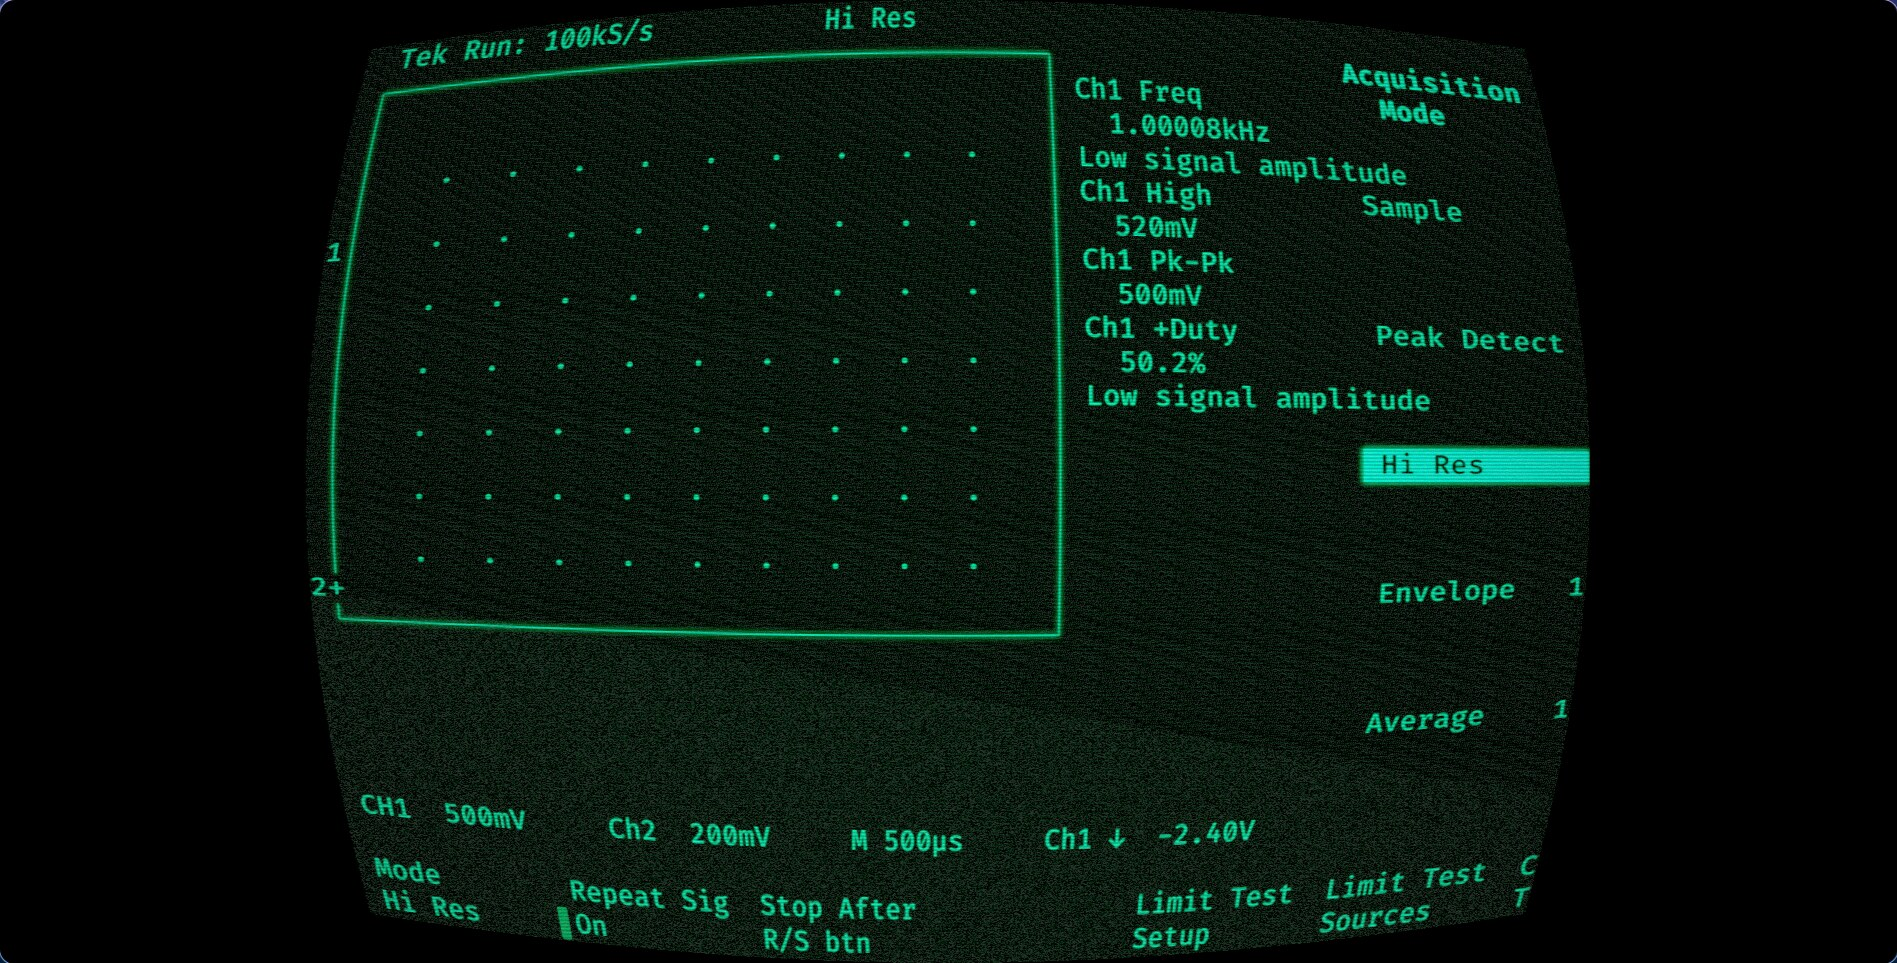
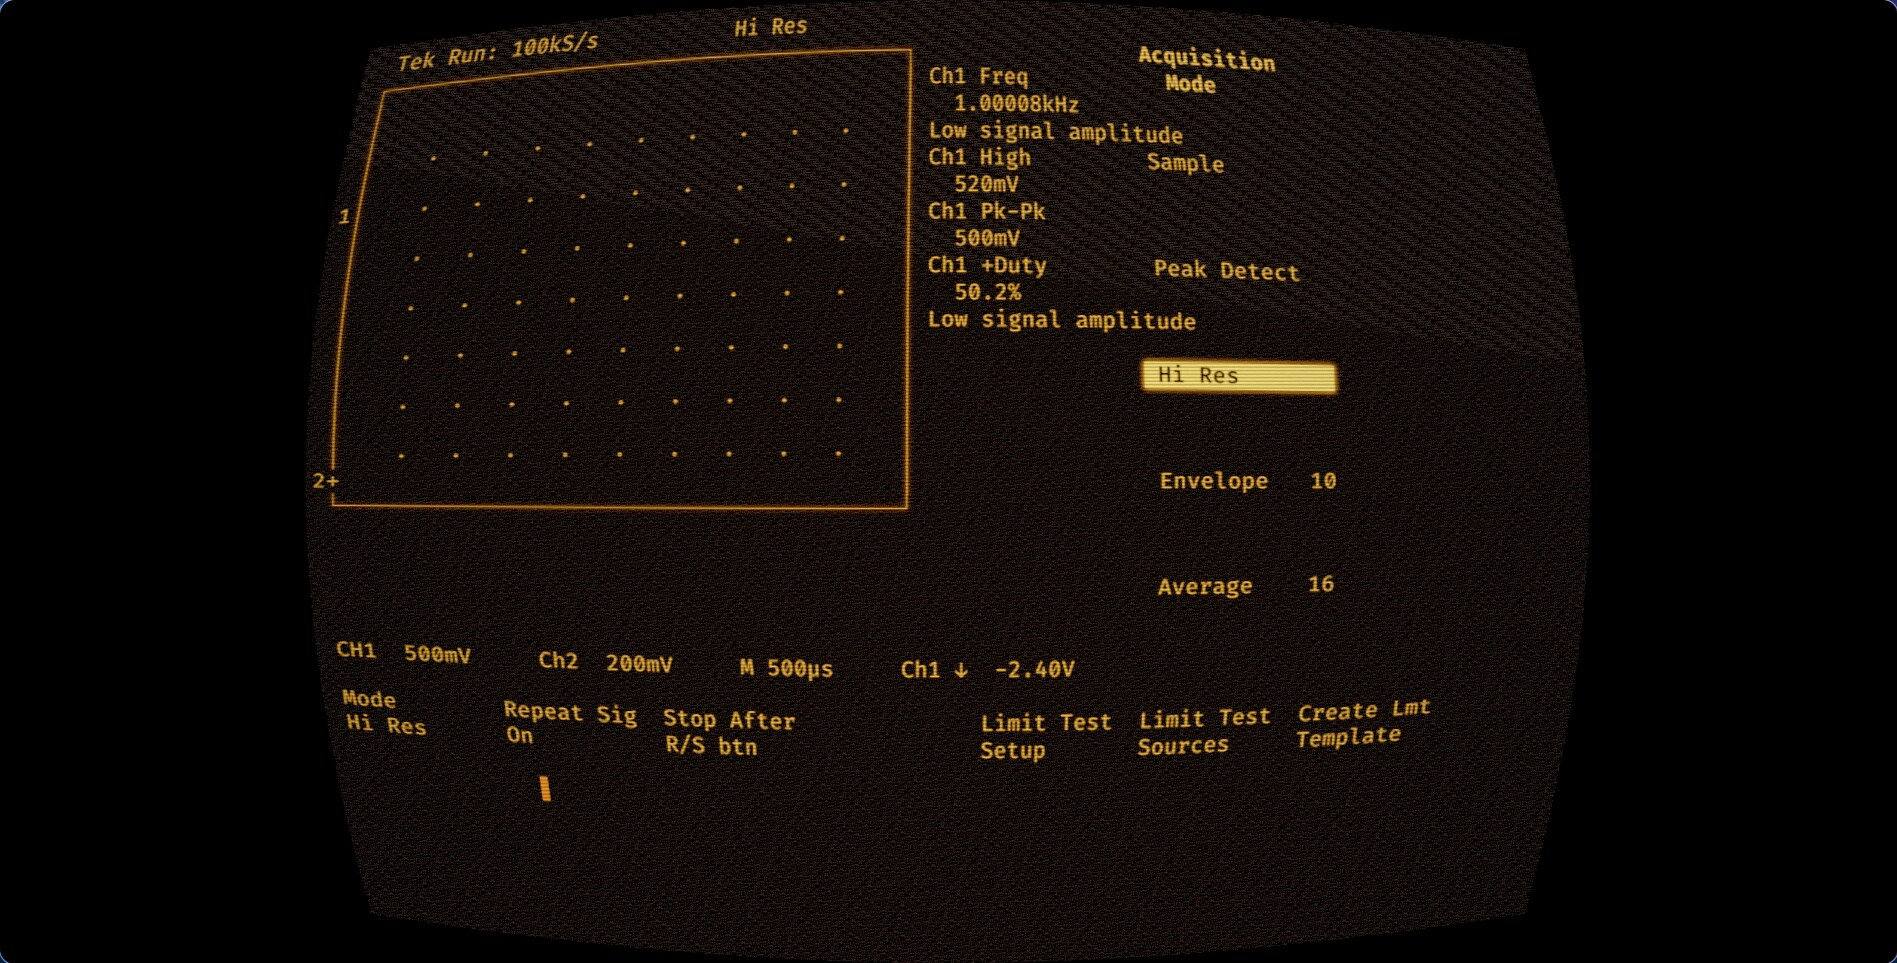
docs: fix README claims, add config reference and build deps
- Drop the ligatures showcase: verified via raw HarfBuzz calls that
  calt-based ligatures don't collapse on this build/font combo, so the
  screenshot was unsubstantiated.
- Recapture hero.png with the current binary (picks up the undercurl
  smoothing fix) and crt.jpg with the historically-correct Zenith
  ZVM-1220 + amber pairing (was mismatched with green-p39, and also
  clipped at the old atlas scale).
- Add docs/config.md: full TOML/CLI reference, linked from the README.
- Add per-distro build dependency commands (apt/dnf/zypper/pacman/brew),
  sourced from the release workflow instead of guessed.

diff --git a/docs/config.md b/docs/config.md
@@ -1,0 +1,185 @@
+# Configuration
+
+tubeless is config-file driven. Everything below can be edited either
+by hand or through the in-terminal settings UI (`tubeless config`),
+which reads and writes the same file and shows a live preview as you
+adjust values.
+
+## File location
+
+```
+$XDG_CONFIG_HOME/tubeless/config.toml
+```
+
+`$XDG_CONFIG_HOME` defaults to `~/.config` on every platform, including
+macOS (deliberately — not `~/Library/Application Support`). A missing
+file is not an error: tubeless just runs with defaults, and any field
+you never set keeps its default. There is no need to write a complete
+file — only the keys you want to override.
+
+## Command-line flags
+
+```sh
+tubeless --theme=nord              # starting theme (config file overrides if set there)
+tubeless --shell=/path/to/program  # program to run instead of $SHELL
+tubeless --font="JetBrains Mono"   # installed font family (default: bundled FiraCode Nerd)
+tubeless --font-size=16            # logical font size in pixels (default: config font.size)
+tubeless config                    # open the in-terminal settings UI
+tubeless upgrade                   # check GitHub for a newer release, install it, restart
+tubeless --version                 # print the build version
+```
+
+## Two independent axes: theme and preset
+
+Every look tubeless ships is built from two independent settings:
+
+- **`theme`** — color. Selects `true_color`, `colors`, and `phosphor`.
+- **`preset`** — every other visual effect: `surface`, `blur`,
+  `cursor`, `face`, `contrast`, and `crt`.
+
+Setting either one seeds the fields it governs; hand-editing any of
+those fields afterward (or through the config TUI) flips that axis's
+name to `"custom"` so it's never silently reseeded later.
+
+```toml
+theme = "rosepine"
+preset = "modern"
+```
+
+### Built-in themes
+
+`rosepine` (default) · `rosepine-moon` · `gruvbox-dark-hard` · `nord` ·
+`dracula` · `catppuccin-mocha` · `tokyo-night` · `one-dark` · `green` ·
+`amber` · `green-p39` · `white-p4` · `cga`
+
+The last five (`green`, `amber`, `green-p39`, `white-p4`, `cga`) are
+monochrome or fixed-palette themes — period-accurate companions to the
+CRT presets below, rather than independent color schemes.
+
+### Built-in presets
+
+`modern` (default, every CRT effect off) · `ibm-5151` · `ibm-5153` ·
+`zenith-zvm-1220` · `apple-monitor-iii` · `commodore-1084s` ·
+`princeton-hx12`
+
+Each non-`modern` preset models one real 1980s monitor's curvature,
+phosphor persistence, noise, and (where applicable) shadow-mask
+convergence error, tuned from that display's own service manual. Four
+of them have one historically-correct theme pairing (selecting the
+preset in `tubeless config` switches the theme too):
+
+| Preset              | Paired theme |
+| ------------------- | ------------ |
+| `ibm-5151`          | `green-p39`  |
+| `ibm-5153`          | `cga`        |
+| `zenith-zvm-1220`   | `amber`      |
+| `apple-monitor-iii` | `white-p4`   |
+
+(`commodore-1084s` and `princeton-hx12` have no fixed native palette —
+real analog RGB monitors that just rendered whatever the host sent
+them — so picking one leaves the active theme alone.)
+
+## Reference
+
+All sizes are in framebuffer pixels unless noted. Colors are linear
+RGB triples `[r, g, b]` in `0.0-1.0`, not raw hex.
+
+### `[font]`
+
+| Key           | Type    | Default | Meaning                                                                 |
+| ------------- | ------- | ------- | ------------------------------------------------------------------------ |
+| `family`      | string  | `""`    | Installed font family (fontconfig-resolved). Empty = bundled FiraCode Nerd. |
+| `size`        | int     | `14`    | Logical font size in pixels.                                            |
+| `line_height` | float   | `1`     | Multiplier on the font's own line height.                               |
+| `ligatures`   | bool    | `true`  | Draw GSUB programming ligatures (`=>`, `->`, `!=`, …) the loaded font's own GSUB tables define. Off costs nothing. |
+
+### `[atlas]`
+
+| Key     | Type  | Default | Meaning                                                              |
+| ------- | ----- | ------- | ----------------------------------------------------------------------- |
+| `scale` | int   | `4`     | Glyph rasterization supersampling. `<= 0` auto-picks from the monitor's content scale. |
+| `gamma` | float | `1.0`   | Glyph rasterization gamma correction.                                |
+
+### `[padding]`
+
+| Key    | Type  | Default | Meaning                                                       |
+| ------ | ----- | ------- | ---------------------------------------------------------------- |
+| `size` | float | `0`     | Empty margin kept between the window (or letterboxed content box) and the grid, on every side. |
+
+### `[scrollback]`
+
+| Key     | Type | Default | Meaning                                        |
+| ------- | ---- | ------- | ------------------------------------------------- |
+| `lines` | int  | `5000`  | Scrolled-off history retained. `<= 0` disables scrollback. Not yet exposed in the config TUI — edit the file directly. |
+
+### `[scrolling]` (experimental)
+
+| Key                    | Type | Default | Meaning                                                                 |
+| ---------------------- | ---- | ------- | ------------------------------------------------------------------------ |
+| `smooth_content_shift` | bool | `false` | Ease detected scroll/pane shifts in like Neovide instead of snapping. A heuristic frame diff — the escape hatch if it misfires on some app's output. |
+
+### `[shell]` (experimental)
+
+| Key        | Type | Default | Meaning                                                                 |
+| ---------- | ---- | ------- | ------------------------------------------------------------------------ |
+| `use_tmux` | bool | `false` | Launch into a fixed tmux session named `home` instead of a plain login shell. Only applies on the `$SHELL` auto-detect path (an explicit `--shell` always wins) and only when tmux is on `PATH`. |
+
+### Theme axis: `[colors]` and `[phosphor]`
+
+| Key                 | Meaning                                                                 |
+| ------------------- | ------------------------------------------------------------------------ |
+| `true_color`        | Whether cells use `[colors]` (true color) or the monochrome `[phosphor]` ramp. |
+| `colors.default_fg` / `colors.default_bg` | Color for a cell with no explicit SGR color. |
+| `colors.palette`    | The 16-entry ANSI table (0-7 normal, 8-15 bright) indexed SGR colors resolve against. |
+| `phosphor.low` / `phosphor.high` | The monochrome intensity ramp's dim/bright ends. On a true-color theme, still drives the CRT chrome tint and cursor accent even though cell colors come from `[colors]`. |
+
+### Preset axis: effects
+
+| Table         | Key            | Meaning                                                              |
+| ------------- | -------------- | ------------------------------------------------------------------------ |
+| `[surface]`   | `radius`       | Block/border corner radius, in pixels.                               |
+|               | `gradient`     | `0..1` top-lit/bottom-shaded sheen on block surfaces.                |
+|               | `shadow`       | `0..1` soft drop shadow cast by block surfaces.                      |
+| `[blur]`      | `radius`       | Gaussian bloom spread, in pixels, over block/border surfaces.        |
+|               | `strength`     | `0..1` mix of the blurred result.                                    |
+| `[cursor]`    | `glow`         | Cursor edge anti-aliasing width, in pixels.                          |
+|               | `pulse_period` | Cursor breathing-pulse period, in seconds.                           |
+| `[face]`      | `bg_tint`      | `0..1` faint phosphor-tinted background (the CRT "tube face" look).  |
+|               | `inset_shadow` | `0..1` radial falloff toward the screen corners.                     |
+| `[contrast]`  | `min_delta`    | Minimum enforced fg/bg brightness gap on the monochrome ramp, so isoluminant color pairs stay readable. |
+
+### `[crt]`
+
+Every field defaults to off (`0`) under the `modern` preset.
+
+| Table            | Key            | Meaning                                                              |
+| ---------------- | -------------- | ------------------------------------------------------------------------ |
+| `[crt.curvature]`     | `amount`        | Barrel distortion toward a curved tube face. `0` flat, `~0.15` subtle, `~0.4` strong. |
+| `[crt.scanlines]`     | `intensity`     | Darkening of alternating horizontal lines.                           |
+|                       | `period`        | Device pixels per line-pair.                                         |
+| `[crt.aberration]`    | `amount`        | Red/blue channel offset from center, in UV units (lens chromatic aberration). |
+| `[crt.shadow_mask]`   | `intensity`     | Procedural RGB triad overlay (shadow-mask subpixel structure).       |
+|                       | `cell_size`     | Device pixels per triad column.                                      |
+| `[crt.noise]`         | `intensity`     | Per-pixel, per-frame brightness jitter (analog signal noise).        |
+| `[crt.flicker]`       | `amount`        | Whole-screen brightness variation over time (unstable power supply). |
+|                       | `speed`         | Flicker rate, roughly in Hz.                                         |
+| `[crt.phosphor_decay]`| `decay_seconds` | Afterglow trail length behind recently-changed content.              |
+| `[crt.aspect_ratio]`  | `width`/`height`| Letterboxed tube aspect ratio (e.g. `4`/`3`) — the physical tube shape, not the raw pixel-count ratio of the mode it displayed. |
+
+## Themes vs. presets vs. profiles
+
+- **Theme** and **preset** are the two axes above — always exactly one
+  named built-in (or `"custom"`) each.
+- **Profiles** are complete, named snapshots of the whole config,
+  saved under `profiles/` next to `config.toml` (`tubeless config`'s
+  `s`/`p`/`o` keys: save, profile-save, profile-load). Useful for
+  switching between a few fully different setups rather than one
+  theme/preset combination.
+
+## Custom theme editor
+
+Picking `theme = "custom"` (or hand-editing any `[colors]`/`[phosphor]`
+field after selecting a built-in theme) leaves the current color
+values in place instead of reseeding them — this is how the config
+TUI's custom theme editor works: start from a built-in that's close,
+then tweak.

diff --git a/README.md b/README.md
@@ -8,14 +8,6 @@ Every glyph — including bold, italic, ligatures, and the cursor glow —
 is drawn on the GPU, not blitted from a bitmap font cache. That's what
 lets a few things most terminals don't bother with:
 
-### Real programming ligatures, from the font's own GSUB tables
-
-No look-alike glyph substitution — `=>`, `!=`, `<-`, `&&` and friends
-are shaped by HarfBuzz straight from the font, the same way a browser
-or a native text editor would render them.
-
-![Go code rendered with FiraCode ligatures](assets/screenshots/ligatures.png)
-
 ### A GPU icon atlas wide enough for the full Nerd Font set
 
 Powerline separators, devicons, and Nerd Font glyphs render at full
@@ -33,7 +25,7 @@ modeling one real display's curvature, phosphor persistence, and
 convergence error from its actual service manual — tuned against
 reference photos of the real hardware.
 
-![The Zenith ZVM-1220 CRT preset rendering an oscilloscope screen in green P39 phosphor](assets/screenshots/crt.jpg)
+![The Zenith ZVM-1220 CRT preset rendering an oscilloscope screen in amber phosphor](assets/screenshots/crt.jpg)
 
 ### A GPU-rendered settings UI, live inside your own terminal
 
@@ -61,7 +53,8 @@ GUI window or restart required.
   Ctrl+Shift+C/V on Linux), aware of apps that request their own mouse
   reporting (tmux, vim, htop) so it doesn't fight them for the mouse
 - Config-file driven: `~/.config/tubeless/config.toml` (same path on
-  every platform, including macOS; respects `$XDG_CONFIG_HOME`)
+  every platform, including macOS; respects `$XDG_CONFIG_HOME`) — see
+  [docs/config.md](docs/config.md) for the full reference
 
 ## Install
 
@@ -78,11 +71,58 @@ install from a build you made yourself (see below).
 
 ## Build from source
 
-Requires Go and, on Linux, the usual GLFW build dependencies
-(`libgl1-mesa-dev xorg-dev libwayland-dev libxkbcommon-dev
-wayland-protocols extra-cmake-modules` on Debian/Ubuntu; the equivalents
-on other distros). On macOS, GLFW's Cocoa backend needs to build on an
-actual Mac — it can't be cross-compiled from Linux.
+Requires Go 1.21+ and a C toolchain (cgo bindings to GLFW, FreeType, and
+HarfBuzz). On macOS, GLFW's Cocoa backend needs to build on an actual
+Mac — it can't be cross-compiled from Linux.
+
+Install the build dependencies for your OS:
+
+**Debian/Ubuntu**
+
+```sh
+sudo apt-get install -y \
+  libgl1-mesa-dev xorg-dev \
+  libwayland-dev libxkbcommon-dev wayland-protocols extra-cmake-modules \
+  libharfbuzz-dev libfreetype-dev pkg-config
+```
+
+**Fedora/RHEL**
+
+```sh
+sudo dnf install -y \
+  mesa-libGL-devel libXcursor-devel libXi-devel libXinerama-devel libXrandr-devel \
+  wayland-devel libxkbcommon-devel wayland-protocols-devel extra-cmake-modules \
+  harfbuzz-devel freetype-devel pkgconf-pkg-config
+```
+
+**openSUSE**
+
+```sh
+sudo zypper install -y \
+  Mesa-libGL-devel libX11-devel libXcursor-devel libXi-devel libXinerama-devel libXrandr-devel \
+  wayland-devel libxkbcommon-devel wayland-protocols-devel extra-cmake-modules \
+  harfbuzz-devel freetype2-devel pkg-config
+```
+
+**Arch/Manjaro**
+
+```sh
+sudo pacman -S --needed \
+  mesa libx11 libxcursor libxi libxinerama libxrandr \
+  wayland libxkbcommon wayland-protocols extra-cmake-modules \
+  harfbuzz freetype2 pkgconf
+```
+
+**macOS**
+
+```sh
+brew install freetype harfbuzz pkg-config
+```
+
+(GLFW's Cocoa/OpenGL backend comes from the system frameworks via Xcode
+Command Line Tools — no separate package needed.)
+
+Then build:
 
 ```sh
 make build            # tubeless, tubeless-config, tektest -> bin/
@@ -100,10 +140,15 @@ Run `make help` for every target, including `package-linux`/
 ```sh
 tubeless                  # start a terminal with your $SHELL
 tubeless --theme=nord     # start with a specific theme
+tubeless --font="JetBrains Mono" --font-size=16
+tubeless --shell=/path/to/program
 tubeless config           # open the in-terminal settings UI
 tubeless upgrade          # check GitHub for a newer release, install it, and restart
 tubeless --version        # print the build version
 ```
+
+See [docs/config.md](docs/config.md) for the full config file
+reference — every theme, preset, and TOML key.
 
 ## License
 
